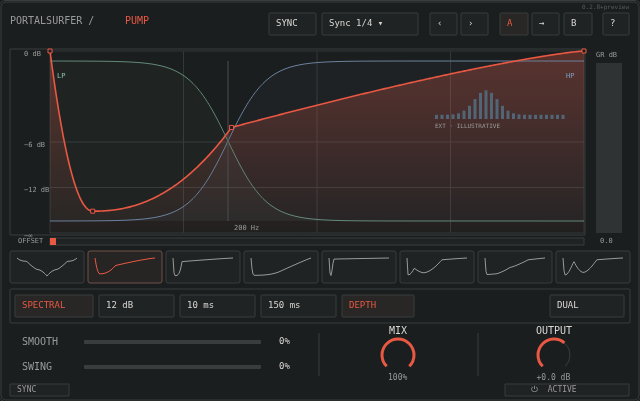
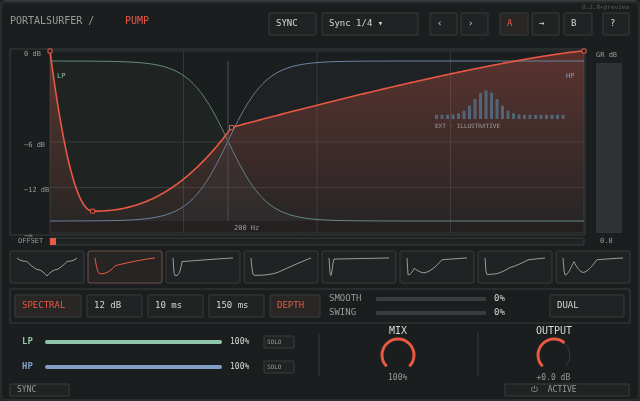
Swap envelope sliders with the LP/HP mix group

diff --git a/frame-standalone.html b/frame-standalone.html
@@ -92,8 +92,8 @@ button:focus-visible, select:focus-visible { outline: 2px solid #e95843; outline
   function text(c,t,x,y,size=10,color=C.text,weight=400){c.fillStyle=color;c.font=`${weight} ${size}px ui-monospace, SFMono-Regular, monospace`;c.textBaseline='middle';c.fillText(t,x,y);}
   function button(c,t,x,y,w,active=false){rect(c,x,y,w,22,1,active?'#282725':C.panel);text(c,t,x+7,y+11,9,active?C.accent:C.text);}
   function knob(c,label,value,x,y,a=0){text(c,label,x-label.length*3,y-24,10);c.strokeStyle=C.line;c.lineWidth=1;c.beginPath();c.arc(x,y,16,.75*Math.PI,2.25*Math.PI);c.stroke();if(a>0){c.strokeStyle=C.accent;c.lineWidth=3;c.beginPath();c.arc(x,y,16,.75*Math.PI,(.75+1.5*a)*Math.PI);c.stroke();}text(c,value,x-value.length*2.5,y+23,8,C.muted);}
-  function slider(c,label,value,x,y,w=282,a=0){text(c,label,x,y,10,C.muted);const tx=x+62,tw=w-105;rect(c,tx,y-2,tw,4,1,C.line,null);if(a>0)rect(c,tx,y-2,tw*a,4,1,C.accent,null);text(c,value,x+w-25,y,9,C.text);}
-  function mixRow(c,label,x,y,value,color){text(c,label,x,y,9,color,600);rect(c,x+23,y-2,118,4,2,'#353838',null);if(value>0)rect(c,x+23,y-2,118*value,4,2,color,null);text(c,Math.round(value*100)+'%',x+149,y,8);rect(c,x+183,y-6,30,12,1,C.panel);text(c,'SOLO',x+186,y,6,C.muted);}
+  function slider(c,label,value,x,y,w=282,a=0){text(c,label,x,y,9,C.muted);const tx=x+47,tw=w-80;rect(c,tx,y-2,tw,4,1,C.line,null);if(a>0)rect(c,tx,y-2,tw*a,4,1,C.accent,null);text(c,value,x+w-25,y,9,C.text);}
+  function mixRow(c,label,x,y,value,color,tw=118){text(c,label,x,y,9,color,600);rect(c,x+23,y-2,tw,4,2,'#353838',null);if(value>0)rect(c,x+23,y-2,tw*value,4,2,color,null);text(c,Math.round(value*100)+'%',x+tw+31,y,8);rect(c,x+tw+65,y-6,30,12,1,C.panel);text(c,'SOLO',x+tw+68,y,6,C.muted);}
   const shapes=[["Sine", [[0.0, 1.0], [0.16, 0.82], [0.34, 0.36], [0.5, 0.0], [0.66, 0.36], [0.84, 0.82], [1.0, 1.0]], [-0.55, -0.1, 0.25, -0.25, 0.1, 0.55]], ["Soft", [[0.0, 1.0], [0.08, 0.12], [0.34, 0.58], [1.0, 1.0]], [-0.35, 0.42, -0.08]], ["Tight", [[0.0, 1.0], [0.035, 0.02], [0.15, 0.8], [1.0, 1.0]], [-0.58, 0.72, -0.04]], ["Long", [[0.0, 1.0], [0.05, 0.04], [0.46, 0.22], [1.0, 1.0]], [-0.48, 0.58, -0.02]], ["Snap", [[0.0, 1.0], [0.012, 0.22], [0.03, 0.0], [0.075, 0.94], [1.0, 1.0]], [-0.08, 0.02, 0.12, 0.0]], ["Punch", [[0.0, 1.0], [0.02, 0.06], [0.12, 0.44], [0.28, 0.18], [0.58, 0.9], [1.0, 1.0]], [-0.52, 0.3, -0.24, 0.22, -0.04]], ["Thump", [[0.0, 1.0], [0.03, 0.08], [0.18, 0.12], [0.42, 0.48], [0.72, 0.9], [1.0, 1.0]], [-0.35, 0.05, 0.12, 0.08, -0.02]], ["Double", [[0.0, 1.0], [0.04, 0.05], [0.18, 0.82], [0.34, 0.2], [0.56, 0.9], [1.0, 1.0]], [-0.48, 0.18, -0.28, 0.2, -0.05]]];
   function sample(shape,x){const n=shape[1],ts=shape[2];let i=0;while(i<n.length-2&&x>n[i+1][0])i++;const l=n[i],r=n[i+1];let t=Math.max(0,Math.min(1,(x-l[0])/(r[0]-l[0])));const tension=ts[i]||0,power=1+Math.abs(tension)*3;t=tension>=0?Math.pow(t,power):1-Math.pow(1-t,power);return l[1]+(r[1]-l[1])*t;}
   function curve(c,shape,x,y,w,h){c.beginPath();for(let i=0;i<=w;i++){const yy=y+(1-sample(shape,i/w))*h;i?c.lineTo(x+i,yy):c.moveTo(x,yy);}c.stroke();}
@@ -121,13 +121,13 @@ button:focus-visible, select:focus-visible { outline: 2px solid #e95843; outline
     rect(c,10,288,620,34,1,C.bg,C.line);
     if(mode==='dual'){
       button(c,'DUAL',15,294,43,true);button(c,'200 Hz',64,294,78);button(c,'24 dB/oct',148,294,74);
-      mixRow(c,'LP',235,298,1,C.low);mixRow(c,'HP',235,312,1,C.blue);button(c,'SPECTRAL',544,294,80);
+      slider(c,'SMOOTH','0%',235,298,212);slider(c,'SWING','0%',235,312,212);button(c,'SPECTRAL',544,294,80);
     }else{
-      button(c,'SPECTRAL',15,294,78,true);button(c,'12 dB',99,294,75);button(c,'10 ms',180,294,75);button(c,'150 ms',261,294,75);button(c,'DEPTH',342,294,72,true);button(c,'DUAL',550,294,74);
+      button(c,'SPECTRAL',15,294,66,true);button(c,'12 dB',87,294,55);button(c,'10 ms',148,294,55);button(c,'150 ms',209,294,55);button(c,'DEPTH',270,294,50,true);slider(c,'SMOOTH','0%',329,298,190);slider(c,'SWING','0%',329,312,190);button(c,'DUAL',550,294,74);
       for(let i=0;i<24;i++){const v=.12+.7*Math.exp(-Math.pow((i-9)/3,2));c.fillStyle='#526576';c.fillRect(435+i*5.5,83+35*(1-v),3,35*v);}text(c,'EXT · ILLUSTRATIVE',435,125,6,C.muted);
     }
     for(const dx of [319,478]){c.strokeStyle=C.line;c.beginPath();c.moveTo(dx,332);c.lineTo(dx,375);c.stroke();}
-    slider(c,'SMOOTH','0%',22,341);slider(c,'SWING','0%',22,366);knob(c,'MIX','100%',398,354,1);knob(c,'OUTPUT','+0.0 dB',554,354,.65);
+    mixRow(c,'LP',22,341,1,C.low,177);mixRow(c,'HP',22,366,1,C.blue,177);knob(c,'MIX','100%',398,354,1);knob(c,'OUTPUT','+0.0 dB',554,354,.65);
     rect(c,10,383,59,12,0,C.panel);text(c,'SYNC',17,389,8,C.muted);rect(c,505,383,124,12,0,C.panel);text(c,'⏻  ACTIVE',531,389,8,C.muted);
   }
   Frame.register({id:'pump',name:'Pump · Dual band',width:640,height:400,paint(c){shell(c,'dual');}});

diff --git a/examples/pump.js b/examples/pump.js
@@ -5,8 +5,8 @@
   function text(c,t,x,y,size=10,color=C.text,weight=400){c.fillStyle=color;c.font=`${weight} ${size}px ui-monospace, SFMono-Regular, monospace`;c.textBaseline='middle';c.fillText(t,x,y);}
   function button(c,t,x,y,w,active=false){rect(c,x,y,w,22,1,active?'#282725':C.panel);text(c,t,x+7,y+11,9,active?C.accent:C.text);}
   function knob(c,label,value,x,y,a=0){text(c,label,x-label.length*3,y-24,10);c.strokeStyle=C.line;c.lineWidth=1;c.beginPath();c.arc(x,y,16,.75*Math.PI,2.25*Math.PI);c.stroke();if(a>0){c.strokeStyle=C.accent;c.lineWidth=3;c.beginPath();c.arc(x,y,16,.75*Math.PI,(.75+1.5*a)*Math.PI);c.stroke();}text(c,value,x-value.length*2.5,y+23,8,C.muted);}
-  function slider(c,label,value,x,y,w=282,a=0){text(c,label,x,y,10,C.muted);const tx=x+62,tw=w-105;rect(c,tx,y-2,tw,4,1,C.line,null);if(a>0)rect(c,tx,y-2,tw*a,4,1,C.accent,null);text(c,value,x+w-25,y,9,C.text);}
-  function mixRow(c,label,x,y,value,color){text(c,label,x,y,9,color,600);rect(c,x+23,y-2,118,4,2,'#353838',null);if(value>0)rect(c,x+23,y-2,118*value,4,2,color,null);text(c,Math.round(value*100)+'%',x+149,y,8);rect(c,x+183,y-6,30,12,1,C.panel);text(c,'SOLO',x+186,y,6,C.muted);}
+  function slider(c,label,value,x,y,w=282,a=0){text(c,label,x,y,9,C.muted);const tx=x+47,tw=w-80;rect(c,tx,y-2,tw,4,1,C.line,null);if(a>0)rect(c,tx,y-2,tw*a,4,1,C.accent,null);text(c,value,x+w-25,y,9,C.text);}
+  function mixRow(c,label,x,y,value,color,tw=118){text(c,label,x,y,9,color,600);rect(c,x+23,y-2,tw,4,2,'#353838',null);if(value>0)rect(c,x+23,y-2,tw*value,4,2,color,null);text(c,Math.round(value*100)+'%',x+tw+31,y,8);rect(c,x+tw+65,y-6,30,12,1,C.panel);text(c,'SOLO',x+tw+68,y,6,C.muted);}
   const shapes=[["Sine", [[0.0, 1.0], [0.16, 0.82], [0.34, 0.36], [0.5, 0.0], [0.66, 0.36], [0.84, 0.82], [1.0, 1.0]], [-0.55, -0.1, 0.25, -0.25, 0.1, 0.55]], ["Soft", [[0.0, 1.0], [0.08, 0.12], [0.34, 0.58], [1.0, 1.0]], [-0.35, 0.42, -0.08]], ["Tight", [[0.0, 1.0], [0.035, 0.02], [0.15, 0.8], [1.0, 1.0]], [-0.58, 0.72, -0.04]], ["Long", [[0.0, 1.0], [0.05, 0.04], [0.46, 0.22], [1.0, 1.0]], [-0.48, 0.58, -0.02]], ["Snap", [[0.0, 1.0], [0.012, 0.22], [0.03, 0.0], [0.075, 0.94], [1.0, 1.0]], [-0.08, 0.02, 0.12, 0.0]], ["Punch", [[0.0, 1.0], [0.02, 0.06], [0.12, 0.44], [0.28, 0.18], [0.58, 0.9], [1.0, 1.0]], [-0.52, 0.3, -0.24, 0.22, -0.04]], ["Thump", [[0.0, 1.0], [0.03, 0.08], [0.18, 0.12], [0.42, 0.48], [0.72, 0.9], [1.0, 1.0]], [-0.35, 0.05, 0.12, 0.08, -0.02]], ["Double", [[0.0, 1.0], [0.04, 0.05], [0.18, 0.82], [0.34, 0.2], [0.56, 0.9], [1.0, 1.0]], [-0.48, 0.18, -0.28, 0.2, -0.05]]];
   function sample(shape,x){const n=shape[1],ts=shape[2];let i=0;while(i<n.length-2&&x>n[i+1][0])i++;const l=n[i],r=n[i+1];let t=Math.max(0,Math.min(1,(x-l[0])/(r[0]-l[0])));const tension=ts[i]||0,power=1+Math.abs(tension)*3;t=tension>=0?Math.pow(t,power):1-Math.pow(1-t,power);return l[1]+(r[1]-l[1])*t;}
   function curve(c,shape,x,y,w,h){c.beginPath();for(let i=0;i<=w;i++){const yy=y+(1-sample(shape,i/w))*h;i?c.lineTo(x+i,yy):c.moveTo(x,yy);}c.stroke();}
@@ -34,13 +34,13 @@
     rect(c,10,288,620,34,1,C.bg,C.line);
     if(mode==='dual'){
       button(c,'DUAL',15,294,43,true);button(c,'200 Hz',64,294,78);button(c,'24 dB/oct',148,294,74);
-      mixRow(c,'LP',235,298,1,C.low);mixRow(c,'HP',235,312,1,C.blue);button(c,'SPECTRAL',544,294,80);
+      slider(c,'SMOOTH','0%',235,298,212);slider(c,'SWING','0%',235,312,212);button(c,'SPECTRAL',544,294,80);
     }else{
-      button(c,'SPECTRAL',15,294,78,true);button(c,'12 dB',99,294,75);button(c,'10 ms',180,294,75);button(c,'150 ms',261,294,75);button(c,'DEPTH',342,294,72,true);button(c,'DUAL',550,294,74);
+      button(c,'SPECTRAL',15,294,66,true);button(c,'12 dB',87,294,55);button(c,'10 ms',148,294,55);button(c,'150 ms',209,294,55);button(c,'DEPTH',270,294,50,true);slider(c,'SMOOTH','0%',329,298,190);slider(c,'SWING','0%',329,312,190);button(c,'DUAL',550,294,74);
       for(let i=0;i<24;i++){const v=.12+.7*Math.exp(-Math.pow((i-9)/3,2));c.fillStyle='#526576';c.fillRect(435+i*5.5,83+35*(1-v),3,35*v);}text(c,'EXT · ILLUSTRATIVE',435,125,6,C.muted);
     }
     for(const dx of [319,478]){c.strokeStyle=C.line;c.beginPath();c.moveTo(dx,332);c.lineTo(dx,375);c.stroke();}
-    slider(c,'SMOOTH','0%',22,341);slider(c,'SWING','0%',22,366);knob(c,'MIX','100%',398,354,1);knob(c,'OUTPUT','+0.0 dB',554,354,.65);
+    mixRow(c,'LP',22,341,1,C.low,177);mixRow(c,'HP',22,366,1,C.blue,177);knob(c,'MIX','100%',398,354,1);knob(c,'OUTPUT','+0.0 dB',554,354,.65);
     rect(c,10,383,59,12,0,C.panel);text(c,'SYNC',17,389,8,C.muted);rect(c,505,383,124,12,0,C.panel);text(c,'⏻  ACTIVE',531,389,8,C.muted);
   }
   Frame.register({id:'pump',name:'Pump · Dual band',width:640,height:400,paint(c){shell(c,'dual');}});

diff --git a/README.md b/README.md
@@ -40,4 +40,4 @@ The main envelope view includes a crossover overlay spanning the full graph with
 
 Smooth and Swing use horizontal sliders without handles; Mix and Output retain their rotary knobs.
 
-The composition groups stacked Smooth/Swing sliders beside Mix/Output, with the compact band strip immediately below the curve presets. Dual activation lives with its band controls.
+The composition groups stacked LP/HP mix sliders beside Mix/Output, with Smooth/Swing in the compact strip immediately below the curve presets. Dual activation lives with its band controls.
